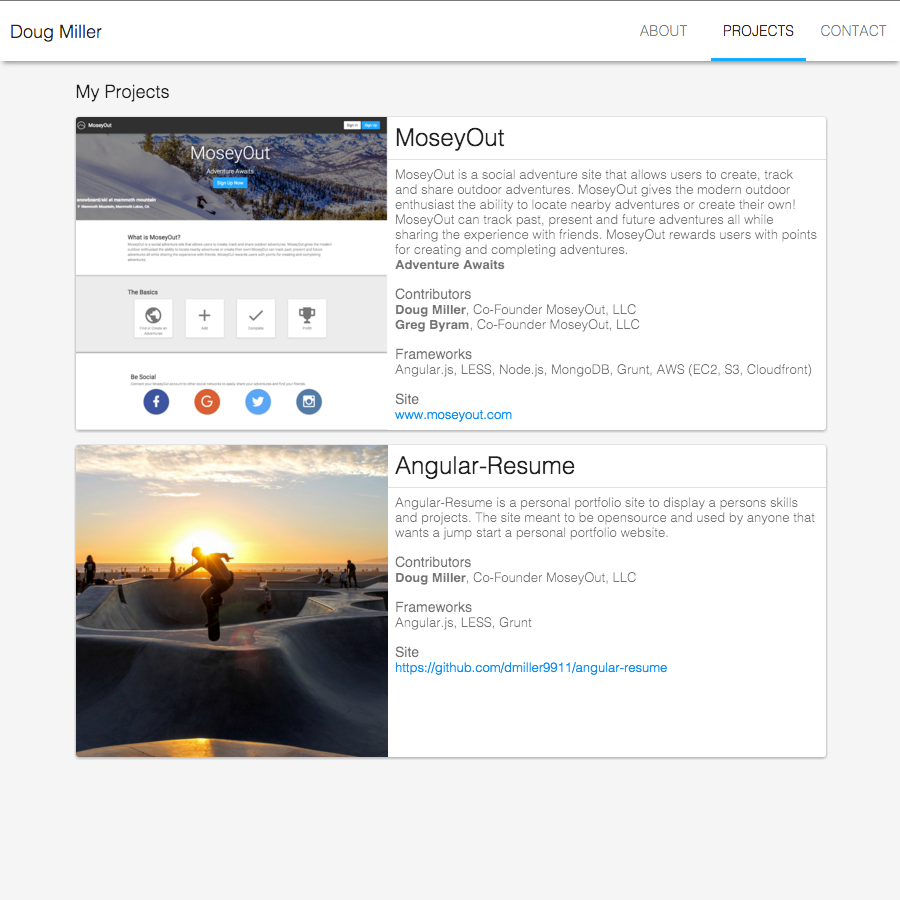
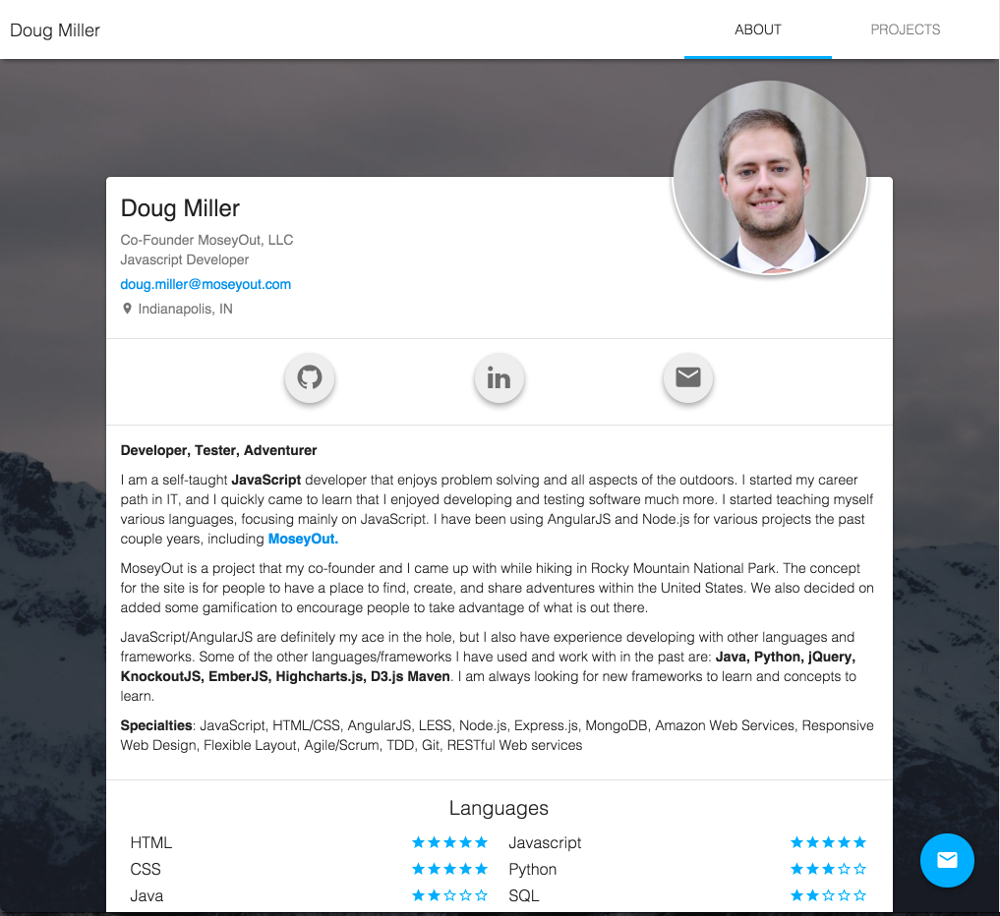
Updated Project Image

diff --git a/app.min.js b/app.min.js
@@ -1,1 +1,1 @@
-!function(){"use strict";angular.module("moResume",["ngAnimate","ngSanitize","ngAria","ui.router","moResume.components","moResume.core","moResume.layout","moResume.about","moResume.projects"])}(),!function(){"use strict";angular.module("moResume.about",[])}(),!function(){"use strict";angular.module("moResume.components",[])}(),!function(){"use strict";angular.module("moResume.core",[])}(),!function(){"use strict";angular.module("moResume.layout",[])}(),!function(){"use strict";angular.module("moResume.projects",[])}(),!function(){"use strict";function a(a,b){function c(b){angular.isDefined(d.person.social[b])&&a.open(d.person.social[b])}var d=this;d.person=b,d.openNetwork=c}angular.module("moResume.about").controller("AboutController",a),a.$inject=["$window","person"]}(),!function(){"use strict";function a(a){a.state("about",{url:"/","abstract":!0,templateUrl:"app/about/about.main.html",controller:"AboutController",controllerAs:"vm"}).state("about.main",{url:"",views:{details:{templateUrl:"app/about/about.details.html"},info:{templateUrl:"app/about/about.info.html"},skills:{templateUrl:"app/about/about.skills.html"},social:{templateUrl:"app/about/about.social.html"}}})}angular.module("moResume.about").config(a),a.$inject=["$stateProvider"]}(),!function(){"use strict";function a(){var a={restrict:"E",templateUrl:"app/components/fab/fab.tpl.html",transclude:!0,scope:!1};return a}function b(){var a={restrict:"E",templateUrl:"app/components/fab/fab-primary.tpl.html",scope:{text:"@",icon:"@",link:"="}};return a}function c(){var a={restrict:"E",templateUrl:"app/components/fab/fab-secondary.tpl.html",scope:{text:"@",icon:"@"}};return a}angular.module("moResume.components").directive("moFab",a).directive("moFabPrimary",b).directive("moFabSecondary",c)}(),function(){"use strict";function a(){function a(a,b,c){a.$watch("rating",function(b){if(b){var c=Math.floor(a.rating),d=[];_.times(c,function(a){d.push(!0)}),_.times(5-c,function(a){d.push(!1)}),a.stars=d}else{var d=[];_.times(5,function(a){d.push(!1)}),a.stars=d}}),a.setRating=function(b){a.readOnly||(a.rating=b)}}var b={restrict:"E",scope:{rating:"=",readOnly:"="},templateUrl:"app/components/rating/rating.tpl.html",replace:!0,link:a};return b}angular.module("moResume.components").directive("moRating",a),a.$inject=[]}(),!function(){"use strict";function a(){var a={restrict:"E",templateUrl:"app/components/skill/skill.tpl.html",scope:{skill:"="}};return a}angular.module("moResume.components").directive("moSkill",a),a.$inject=[]}(),!function(){"use strict";function a(){var a={restrict:"E",scope:{url:"=",round:"="},templateUrl:"app/components/square-photo/square-photo.tpl.html",replace:!0};return a}angular.module("moResume.components").directive("moSquarePhoto",a),a.$inject=[]}(),!function(){"use strict";function a(){var a={restrict:"E",scope:{label:"@",active:"="},templateUrl:"app/components/tabs/tab.html",replace:!0};return a}angular.module("moResume.components").directive("moTab",a),a.$inject=[]}(),!function(){"use strict";function a(){var a={restrict:"E",scope:!1,transclude:!0,templateUrl:"app/components/tabs/tabs.html"};return a}angular.module("moResume.components").directive("moTabs",a),a.$inject=[]}(),!function(){"use strict";angular.module("moResume.core").constant("person",{firstName:"Doug",lastName:"Miller",contact:{email:"doug.miller@moseyout.com"},location:"Indianapolis, IN",about:["<b>Developer, Tester, Adventurer<b>","I am a self-taught <b>JavaScript</b> developer that enjoys problem solving and all aspects of the outdoors. I started my career path in IT, and I quickly came to learn that I enjoyed developing and testing software much more.  I started teaching myself various languages, focusing mainly on JavaScript.  I have been using AngularJS and Node.js for various projects the past couple years, including <b><a href='http://www.moseyout.com' target='_blank'>MoseyOut.</a></b>","MoseyOut is a project that my co-founder and I came up with while hiking in Rocky Mountain National Park.  The concept for the site is for people to have a place to find, create, and share adventures within the United States.  We also decided on added some gamification to encourage people to take advantage of what is out there.","JavaScript/AngularJS are definitely my ace in the hole, but I also have experience developing with other languages and frameworks. Some of the other languages/frameworks I have used and work with in the past are:<b> Java, Python, jQuery, KnockoutJS, EmberJS, Highcharts.js, D3.js Maven</b>.  I am always looking for new frameworks to learn and concepts to learn.","<b>Specialties</b>: JavaScript, HTML/CSS, AngularJS, LESS, Node.js, Express.js, MongoDB, Amazon Web Services, Responsive Web Design, Flexible Layout, Agile/Scrum, TDD, Git, RESTful Web services"],tagline:"Co-Founder MoseyOut, LLC <br>Javascript Developer",website:"www.douglasallenmiller.com",social:{email:"mailto:doug.miller@moseyout.com",facebook:void 0,twitter:void 0,github:"https://github.com/dmiller9911",instagram:void 0,googlePlus:void 0,linkedIn:"https://www.linkedin.com/pub/doug-miller/29/b72/273"},skills:[{section:"Languages",items:[{label:"HTML",value:5},{label:"Javascript",value:5},{label:"CSS",value:5},{label:"Python",value:3},{label:"Java",value:2},{label:"SQL",value:2}]},{section:"Frameworks",items:[{label:"Angular",value:5},{label:"Node.js",value:5},{label:"jQuery",value:4},{label:"Express",value:4},{label:"LESS",value:4},{label:"Knockout",value:3},{label:"Ember",value:3},{label:"Grunt",value:3},{label:"Mongo",value:3}]},{section:"Software/APIs",items:[{label:"Atlassian",subText:"JIRA, Confluence, Bitbucket",value:5},{label:"Oauth 2.0",value:4},{label:"Amazon Web Services",subText:"EC2, S3, Cloudfront, DynamoDb",value:4},{label:"Jenkins",value:3},{label:"Git",value:3}]},{section:"Concepts",items:[{label:"RESTful Web APIs",value:5},{label:"Agile/Scrum Development",value:4},{label:"Singleton",value:4},{label:"Object Oriented Programming",value:4},{label:"Test Driven Development",value:3}]}],projects:[{title:"MoseyOut",description:"MoseyOut is a social adventure site that allows users to create, track and share outdoor adventures. MoseyOut gives the modern outdoor enthusiast the ability to locate nearby adventures or create their own! MoseyOut can track past, present and future adventures all while sharing the experience with friends. MoseyOut rewards users with points for creating and completing adventures.",tagline:"Be Adventureous",imageUrl:"assets/projects/moseyout/moseyout-1.png",contributors:[{name:"Doug Miller",title:"Co-Found MoseyOut, LLC"},{name:"Greg Byram",title:"Co-Found MoseyOut, LLC"}],frameworks:["Angular.js","LESS","Node.js","MongoDB","Grunt","AWS (EC2, S3, Cloudfront)"],site:"http://www.moseyout.com"},{title:"Angular-Resume",description:"Angular-Resume is a personal portfolio site to display a persons skills and projects. The site meant to be open source and used by anyone that wants a jump start a personal portfolio website",contributors:[{name:"Doug Miller",title:"Co-Found MoseyOut, LLC"}],frameworks:["Angular.js","LESS","Grunt"],site:"https://github.com/dmiller9911/angular-resume"}]})}(),!function(){"use strict";function a(a){a.otherwise("/")}angular.module("moResume.core").config(a),a.$inject=["$urlRouterProvider"]}(),!function(){"use strict";function a(a){function b(b){return console.log(b),a.includes(b)}var c=this;c.isActiveState=b}angular.module("moResume.layout").controller("HeaderController",a),a.$inject=["$state"]}(),!function(){"use strict";function a(){var a={restrict:"E",scope:!1,templateUrl:"app/layout/header/header.tpl.html",controller:"HeaderController",controllerAs:"vm",bindToController:!0};return a}angular.module("moResume").directive("moHeader",a),a.$inject=[]}(),!function(){"use strict";function a(a,b){function c(){a.location.href="mailto:"+b.contact.email}var d=this;d.contactPerson=c}angular.module("moResume.layout").controller("MainFabController",a),a.$inject=["$window","person"]}(),!function(){"use strict";function a(){var a={restrict:"E",templateUrl:"app/layout/main-fab/main-fab.tpl.html",controller:"MainFabController",controllerAs:"vm",scope:{},bindToController:!0};return a}angular.module("moResume.layout").directive("moMainFab",a),a.$inject=[]}(),!function(){"use strict";function a(a){a.state("projects",{url:"/projects",templateUrl:"app/projects/projects.html",controller:"ProjectsController",controllerAs:"vm"})}angular.module("moResume.projects").config(a),a.$inject=["$stateProvider"]}(),!function(){"use strict";function a(a){function b(){c()}function c(){(a||a.projects)&&(d.projects=a.projects)}var d=this;d.projects=[],b()}angular.module("moResume.projects").controller("ProjectsController",a),a.$inject=["person"]}();
+!function(){"use strict";angular.module("moResume",["ngAnimate","ngSanitize","ngAria","ui.router","moResume.components","moResume.core","moResume.layout","moResume.about","moResume.projects"])}(),!function(){"use strict";angular.module("moResume.about",[])}(),!function(){"use strict";angular.module("moResume.components",[])}(),!function(){"use strict";angular.module("moResume.core",[])}(),!function(){"use strict";angular.module("moResume.layout",[])}(),!function(){"use strict";angular.module("moResume.projects",[])}(),!function(){"use strict";function a(a,b){function c(b){angular.isDefined(d.person.social[b])&&a.open(d.person.social[b])}var d=this;d.person=b,d.openNetwork=c}angular.module("moResume.about").controller("AboutController",a),a.$inject=["$window","person"]}(),!function(){"use strict";function a(a){a.state("about",{url:"/","abstract":!0,templateUrl:"app/about/about.main.html",controller:"AboutController",controllerAs:"vm"}).state("about.main",{url:"",views:{details:{templateUrl:"app/about/about.details.html"},info:{templateUrl:"app/about/about.info.html"},skills:{templateUrl:"app/about/about.skills.html"},social:{templateUrl:"app/about/about.social.html"}}})}angular.module("moResume.about").config(a),a.$inject=["$stateProvider"]}(),!function(){"use strict";function a(){var a={restrict:"E",templateUrl:"app/components/fab/fab.tpl.html",transclude:!0,scope:!1};return a}function b(){var a={restrict:"E",templateUrl:"app/components/fab/fab-primary.tpl.html",scope:{text:"@",icon:"@",link:"="}};return a}function c(){var a={restrict:"E",templateUrl:"app/components/fab/fab-secondary.tpl.html",scope:{text:"@",icon:"@"}};return a}angular.module("moResume.components").directive("moFab",a).directive("moFabPrimary",b).directive("moFabSecondary",c)}(),function(){"use strict";function a(){function a(a,b,c){a.$watch("rating",function(b){if(b){var c=Math.floor(a.rating),d=[];_.times(c,function(a){d.push(!0)}),_.times(5-c,function(a){d.push(!1)}),a.stars=d}else{var d=[];_.times(5,function(a){d.push(!1)}),a.stars=d}}),a.setRating=function(b){a.readOnly||(a.rating=b)}}var b={restrict:"E",scope:{rating:"=",readOnly:"="},templateUrl:"app/components/rating/rating.tpl.html",replace:!0,link:a};return b}angular.module("moResume.components").directive("moRating",a),a.$inject=[]}(),!function(){"use strict";function a(){var a={restrict:"E",templateUrl:"app/components/skill/skill.tpl.html",scope:{skill:"="}};return a}angular.module("moResume.components").directive("moSkill",a),a.$inject=[]}(),!function(){"use strict";function a(){var a={restrict:"E",scope:{url:"=",round:"="},templateUrl:"app/components/square-photo/square-photo.tpl.html",replace:!0};return a}angular.module("moResume.components").directive("moSquarePhoto",a),a.$inject=[]}(),!function(){"use strict";function a(){var a={restrict:"E",scope:{label:"@",active:"="},templateUrl:"app/components/tabs/tab.html",replace:!0};return a}angular.module("moResume.components").directive("moTab",a),a.$inject=[]}(),!function(){"use strict";function a(){var a={restrict:"E",scope:!1,transclude:!0,templateUrl:"app/components/tabs/tabs.html"};return a}angular.module("moResume.components").directive("moTabs",a),a.$inject=[]}(),!function(){"use strict";angular.module("moResume.core").constant("person",{firstName:"Doug",lastName:"Miller",contact:{email:"doug.miller@moseyout.com"},location:"Indianapolis, IN",about:["<b>Developer, Tester, Adventurer<b>","I am a self-taught <b>JavaScript</b> developer that enjoys problem solving and all aspects of the outdoors. I started my career path in IT, and I quickly came to learn that I enjoyed developing and testing software much more.  I started teaching myself various languages, focusing mainly on JavaScript.  I have been using AngularJS and Node.js for various projects the past couple years, including <b><a href='http://www.moseyout.com' target='_blank'>MoseyOut.</a></b>","MoseyOut is a project that my co-founder and I came up with while hiking in Rocky Mountain National Park.  The concept for the site is for people to have a place to find, create, and share adventures within the United States.  We also decided on added some gamification to encourage people to take advantage of what is out there.","JavaScript/AngularJS are definitely my ace in the hole, but I also have experience developing with other languages and frameworks. Some of the other languages/frameworks I have used and work with in the past are:<b> Java, Python, jQuery, KnockoutJS, EmberJS, Highcharts.js, D3.js Maven</b>.  I am always looking for new frameworks to learn and concepts to learn.","<b>Specialties</b>: JavaScript, HTML/CSS, AngularJS, LESS, Node.js, Express.js, MongoDB, Amazon Web Services, Responsive Web Design, Flexible Layout, Agile/Scrum, TDD, Git, RESTful Web services"],tagline:"Co-Founder MoseyOut, LLC <br>Javascript Developer",website:"www.douglasallenmiller.com",social:{email:"mailto:doug.miller@moseyout.com",facebook:void 0,twitter:void 0,github:"https://github.com/dmiller9911",instagram:void 0,googlePlus:void 0,linkedIn:"https://www.linkedin.com/pub/doug-miller/29/b72/273"},skills:[{section:"Languages",items:[{label:"HTML",value:5},{label:"Javascript",value:5},{label:"CSS",value:5},{label:"Python",value:3},{label:"Java",value:2},{label:"SQL",value:2}]},{section:"Frameworks",items:[{label:"Angular",value:5},{label:"Node.js",value:5},{label:"jQuery",value:4},{label:"Express",value:4},{label:"LESS",value:4},{label:"Knockout",value:3},{label:"Ember",value:3},{label:"Grunt",value:3},{label:"Mongo",value:3}]},{section:"Software/APIs",items:[{label:"Atlassian",subText:"JIRA, Confluence, Bitbucket",value:5},{label:"Oauth 2.0",value:4},{label:"Amazon Web Services",subText:"EC2, S3, Cloudfront, DynamoDb",value:4},{label:"Jenkins",value:3},{label:"Git",value:3}]},{section:"Concepts",items:[{label:"RESTful Web APIs",value:5},{label:"Agile/Scrum Development",value:4},{label:"Singleton",value:4},{label:"Object Oriented Programming",value:4},{label:"Test Driven Development",value:3}]}],projects:[{title:"MoseyOut",description:"MoseyOut is a social adventure site that allows users to create, track and share outdoor adventures. MoseyOut gives the modern outdoor enthusiast the ability to locate nearby adventures or create their own! MoseyOut can track past, present and future adventures all while sharing the experience with friends. MoseyOut rewards users with points for creating and completing adventures.",tagline:"Be Adventureous",imageUrl:"assets/projects/moseyout/moseyout-1.png",contributors:[{name:"Doug Miller",title:"Co-Founder MoseyOut, LLC"},{name:"Greg Byram",title:"Co-Founder MoseyOut, LLC"}],frameworks:["Angular.js","LESS","Node.js","MongoDB","Grunt","AWS (EC2, S3, Cloudfront)"],site:"http://www.moseyout.com"},{title:"Angular-Resume",description:"Angular-Resume is a personal portfolio site to display a persons skills and projects. The site meant to be open source and used by anyone that wants a jump start a personal portfolio website",imageUrl:"assets/projects/resume/angular-resume-1.png",contributors:[{name:"Doug Miller",title:"Co-Founder MoseyOut, LLC"}],frameworks:["Angular.js","LESS","Grunt"],site:"https://github.com/dmiller9911/angular-resume"}]})}(),!function(){"use strict";function a(a){a.otherwise("/")}angular.module("moResume.core").config(a),a.$inject=["$urlRouterProvider"]}(),!function(){"use strict";function a(a){function b(b){return console.log(b),a.includes(b)}var c=this;c.isActiveState=b}angular.module("moResume.layout").controller("HeaderController",a),a.$inject=["$state"]}(),!function(){"use strict";function a(){var a={restrict:"E",scope:!1,templateUrl:"app/layout/header/header.tpl.html",controller:"HeaderController",controllerAs:"vm",bindToController:!0};return a}angular.module("moResume").directive("moHeader",a),a.$inject=[]}(),!function(){"use strict";function a(a,b){function c(){a.location.href="mailto:"+b.contact.email}var d=this;d.contactPerson=c}angular.module("moResume.layout").controller("MainFabController",a),a.$inject=["$window","person"]}(),!function(){"use strict";function a(){var a={restrict:"E",templateUrl:"app/layout/main-fab/main-fab.tpl.html",controller:"MainFabController",controllerAs:"vm",scope:{},bindToController:!0};return a}angular.module("moResume.layout").directive("moMainFab",a),a.$inject=[]}(),!function(){"use strict";function a(a){a.state("projects",{url:"/projects",templateUrl:"app/projects/projects.html",controller:"ProjectsController",controllerAs:"vm"})}angular.module("moResume.projects").config(a),a.$inject=["$stateProvider"]}(),!function(){"use strict";function a(a){function b(){c()}function c(){(a||a.projects)&&(d.projects=a.projects)}var d=this;d.projects=[],b()}angular.module("moResume.projects").controller("ProjectsController",a),a.$inject=["person"]}();
